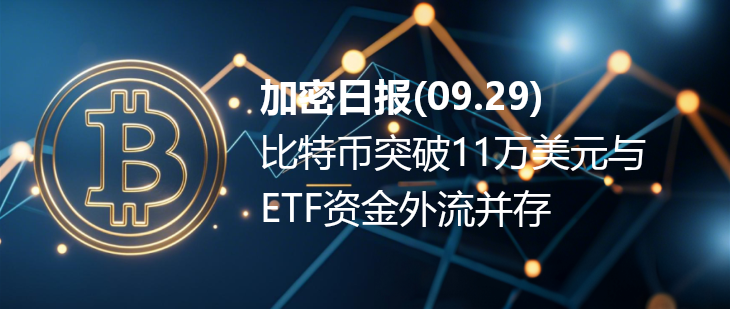
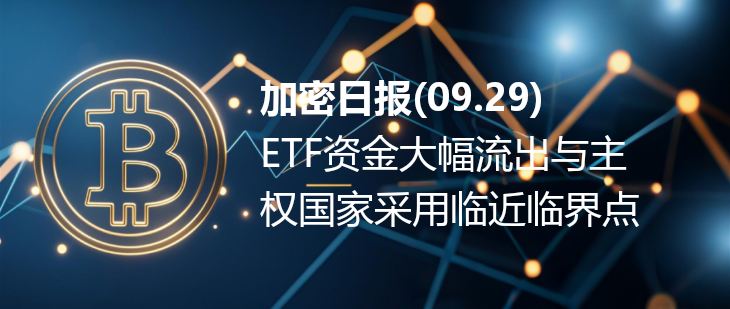
daily_news

Changed region(s): [[0.3315, 0.6117, 0.874, 0.7573], [0.3616, 0.4369, 0.9041, 0.5534], [0.3616, 0.2621, 0.7534, 0.3786]]

diff --git a/files/latest_summary.md b/files/latest_summary.md
@@ -1,48 +1,51 @@
-### 一、比特币价格波动与技术面分析
+### 一、比特币市场动态与价格分析  
+**总结**：  
+1. 技术分析显示比特币短期支撑位在107286-105159美元区间，阻力位在112400-113750美元，若突破或推动价格接近117971美元，否则可能吸引流动性回调。  
+2. 市场情绪分化，交易员在110000美元卖出看涨期权、109000美元买入看跌期权，临近周末波动率压缩，难现大幅波动，部分交易者在ETH看涨和BTC看跌期权上获利了结。  
+3. NYDIG批评比特币财库公司常用的“mNAV”指标存在误导性，未考虑运营业务或其他资产，且可能含未满足转换条件的可转债导致负债问题。  
 
-**总结**：
-1. 比特币近期价格波动显著，突破110000美元关键价位，技术面分析显示短期支撑位在109400-109575美元区间，阻力位约109750美元，突破阻力后目标指向110000-111000美元，跌破支撑则可能回调至更低区间吸引流动性。
-2. 市场情绪分化，临近周末波动率压缩，交易员在110000美元卖出看涨期权、109000美元买入看跌期权，对第四季度乐观预期存疑，认为近期走势或为“愚蠢的价格行为”。
-3. 技术面指出，比特币日线级别需关注动量强度，若突破阻力可能重燃上涨动能，否则横盘整理概率较大，市场流动性是推动价格移动的关键因素。
-
-**参考**：
-- [bitcoin $BTC 技术分析主要和重要的基本点 时间框架1D 依赖的分析是通过所有平台的 - Binance](https://www.binance.com/zh-CN/square/post/30302382561449)
-- [BTC突破110000美元 - Mitrade](https://www.mitrade.com/cn/insights/news/live-news/article-3-1155383-20250928)
-- [Greeklive：整体市场情绪分化，波动率压缩 - 新浪财经](https://finance.sina.com.cn/blockchain/roll/2025-09-28/doc-infsaexf8783092.shtml)
-
-
-### 二、比特币ETF与机构动态
-
-**总结**：
-1. 现货比特币和以太坊ETF上周遭遇资金大幅流出，比特币ETF流出9.025亿美元，以太坊ETF流出7.956亿美元，为产品推出以来最糟糕一周，反映市场信心受技术崩溃、宏观担忧及连锁清算影响。
-2. Michael Saylor再次发布比特币Tracker信息并强调“始终积累比特币”，根据过往规律，Strategy公司次日或披露增持数据，其比特币投资组合价值约700.1亿美元，累计持有约639,835 BTC。
-3. NYDIG呼吁行业放弃“mNAV”指标，指出该指标未考虑运营业务或其他资产，且可能含未满足转换条件的可转债，存在误导性，大型比特币资产储备公司实际价值评估需更全面。
-
-**参考**：
-- [以太坊和比特币ETF刚刚经历了有史以来最糟糕的一周。 - CryptoTicker](https://cryptoticker.io/zh/%E4%BB%A5%E5%A4%AA%E5%9D%8A%E5%92%8C%E6%AF%94%E7%89%B9%E5%B8%81ETF%E5%88%9A%E5%88%9A%E7%BB%8F%E5%8E%86%E4%BA%86%E6%9C%80%E7%B3%95%E7%9A%84-%E5%91%A8/)
-- [Michael Saylor发布比特币Tracker信息，或暗示再次增持BTC - Binance](https://www.binance.com/cn/square/post/30296948319001)
-- [NYDIG呼吁比特币财库公司放弃“误导性”的mNAV指标 - PANews](https://www.panewslab.com/zh/articles/7792c603-d1f4-4b27-b67a-6690696f9366)
+**参考**：  
+- [Michael Saylor再次发布比特币Tracker信息，下周或将披露增持数据](https://www.chaincatcher.com/article/2209127)  
+- [Michael Saylor发布比特币Tracker信息，或暗示再次增持BTC](https://www.binance.com/zh-CN/square/post/30296948319001)  
+- [Greeklive：整体市场情绪分化，波动率压缩](https://finance.sina.com.cn/blockchain/roll/2025-09-28/doc-infsaexf8783092.shtml)  
+- [bitcoin $BTC 技术分析主要和重要的基本点   时间框架1D](https://www.binance.com/zh-CN/square/post/30302382561449)  
+- [NYDIG呼吁比特币财库公司放弃“误导性”的mNAV指标](https://www.panewslab.com/zh/articles/7792c603-d1f4-4b27-b67a-6690696f9366)  
 
 
-### 三、比特币与黄金的投资价值争议
+### 二、比特币与黄金的投资价值对比  
+**总结**：  
+1. 经济学家Peter Schiff对比特币与黄金的收益及流动性进行对比，认为黄金更适合大规模持有。  
+2. Michael Saylor为Strategy购买比特币已获约47%收益，若同期投资黄金收益约30%，但黄金市场深度大，大规模出售不易影响价格，而比特币大规模出售可能导致市场崩盘。  
 
-**总结**：
-1. 经济学家Peter Schiff对比特币与黄金投资安全提出争议，认为Michael Saylor的Strategy公司投资比特币虽账面收益（约47%）高于黄金（约30%），但出售大量比特币（价值695亿美元）可能导致市场崩盘，而黄金市场深度可支持大额交易，更安全。
-2. 比特币作为“最稳健货币”的声誉随宏观不确定性提升，长期或成为投资者回归的稳定选择，但短期受山寨币吸引力、零售用户入场偏好（如低单价山寨币）影响，市场多元化趋势明显。
-
-**参考**：
-- [Peter Schiff：若Strategy投资黄金而非BTC，或将获得更安全的账面利润 - 链捕手](https://www.marsbit.co/flash/20250928232901022925.html)
-- [比特币（BTC）主权国家采用即将迎来临界点，或将加速涌入 - Cointelegraph中文](https://cn.cointelegraph.com/news/bitcoin-fomo-nation-state-adoption-jan3-samson-mow)
+**参考**：  
+- [BTC 新闻：彼得·希夫解释为何策略（MSTR）应购买黄金而非比特币](https://www.coindesk.com/zh/markets/2025/09/28/schiff-challenges-saylor-s-bitcoin-bet-analyst-says-sub-usd107k-btc-is-a-tremendous-buying-opportunity)  
+- [Peter Schiff：若Strategy 投资黄金而非BTC，或将获得更安全的账面利润](https://m.marsbit.co/flash/20250928232901022925.html)  
+- [经济学家：Strategy若投资黄金而非比特币可能获得更安全的账面利润](https://www.binance.com/zh-CN/square/post/09-28-2025-strategy-30297100487906)  
 
 
-### 四、比特币市场成熟度及宏观经济影响
+### 三、比特币与以太坊ETF资金流动及市场反应  
+**总结**：  
+1. 比特币和以太坊现货ETF上周出现史上最严重资金流出，投资者信心受考验。  
+2. 比特币ETF流出9.025亿美元，以太坊ETF流出7.956亿美元，受技术性崩溃、宏观经济担忧及衍生品清算影响，ETH跌破4000美元后回升，BTC在109000美元附近震荡。  
 
-**总结**：
-1. 比特币市场成熟度提升，仅55%的新加密货币持有者首次投资选择比特币，37%通过山寨币入场，反映市场多元化及参与度扩大，比特币不再是唯一主流入场选择。
-2. 美国政府停摆风险、宏观经济担忧（如通胀、关税）及美联储降息预期影响市场情绪，可能打压美元指数，推升黄金等避险资产，同时影响比特币短期波动，需关注美国8月核心PCE数据及政策不确定性。
-3. 比特币主权国家采用进入“突然初期阶段”，美国推进相关法案及战略性储备计划，预计未来或加速采用，拉丁美洲被视为重要区域，而零售用户对行业认知不足可能导致其短期回避比特币。
+**参考**：  
+- [以太坊和比特币ETF刚刚经历了有史以来最糟糕的一周。](https://cryptoticker.io/zh/%E4%BB%A5%E5%A4%AA%E5%9D%8A%E5%92%8C%E6%AF%94%E7%89%B9%E5%B8%81ETF%E5%88%9A%E5%88%9A%E7%BB%8F%E5%8E%86%E4%BA%86%E6%9C%89%E5%8F%B2%E4%BB%A5%E6%9D%A5%E6%9C%80%E7%B3%95%E7%9A%84-%E5%91%A8/)  
+- [以太坊和比特币ETF刚刚经历了有史以来最糟糕的一周。](https://www.bitget.com/zh-CN/news/detail/12560604991730)  
 
-**参考**：
-- [比特币（BTC）主权国家采用即将迎来临界点，或将加速涌入 - Cointelegraph中文](https://cn.cointelegraph.com/news/bitcoin-fomo-nation-state-adoption-jan3-samson-mow)
-- [比特币（BTC）如今只是零售用户进入加密货币领域的众多途径之一 - Cointelegraph中文](https://cn.cointelegraph.com/news/crypto-users-skipping-bitcoin-for-altcoins-2025)
-- [美国政府关门可能让GDP每周损失约70亿美元... - Mitrade](https://www.mitrade.com/cn/insights/news/live-news/article-3-1155383-20250928)
+
+### 四、比特币主权国家采用进展与市场成熟度  
+**总结**：  
+1. 比特币主权国家采用即将进入临界点，美国正推进比特币储备计划，拉丁美洲或有重要政策举措。  
+2. 新加密货币持有者中仅55%首次投资比特币，37%通过山寨币入场，市场多元化推动参与，比特币不再是唯一入场选择，而成为众多加密货币投资目标之一。  
+
+**参考**：  
+- [Samson Mow断言：比特币（BTC）主权国家采用即将迎来临界点，或将加速涌入](https://cn.cointelegraph.com/news/bitcoin-fomo-nation-state-adoption-jan3-samson-mow)  
+- [比特币（BTC）如今只是零售用户进入加密货币领域的众多途径之一](https://cn.cointelegraph.com/news/crypto-users-skipping-bitcoin-for-altcoins-2025)  
+
+
+### 五、稳定币市场现状与竞争  
+**总结**：  
+1. Wormhole联创指出Tether和Circle通过持有支撑其币的美国国债收益“印钞”，持币人未分享收益，新兴平台如M⁰和Agora尝试让稳定币底层收益直接流向应用或最终用户。  
+
+**参考**：  
+- [Wormhole 联创：Tether 和Circle 正在“印钞”，但竞争对手即将到来](https://finance.sina.com.cn/blockchain/roll/2025-09-28/doc-infsaexf8782642.shtml)

diff --git a/files/latest_summary_cleaned.md b/files/latest_summary_cleaned.md
@@ -1,22 +1,19 @@
-### 一、比特币价格波动与技术面分析
+### 一、比特币市场动态与价格分析  
+1. 技术分析显示比特币短期支撑位在107286-105159美元区间，阻力位在112400-113750美元，若突破或推动价格接近117971美元，否则可能吸引流动性回调。  
+2. 市场情绪分化，交易员在110000美元卖出看涨期权、109000美元买入看跌期权，临近周末波动率压缩，难现大幅波动，部分交易者在ETH看涨和BTC看跌期权上获利了结。  
+3. NYDIG批评比特币财库公司常用的“mNAV”指标存在误导性，未考虑运营业务或其他资产，且可能含未满足转换条件的可转债导致负债问题。  
 
-1. 比特币近期价格波动显著，突破110000美元关键价位，技术面分析显示短期支撑位在109400-109575美元区间，阻力位约109750美元，突破阻力后目标指向110000-111000美元，跌破支撑则可能回调至更低区间吸引流动性。
-2. 市场情绪分化，临近周末波动率压缩，交易员在110000美元卖出看涨期权、109000美元买入看跌期权，对第四季度乐观预期存疑，认为近期走势或为“愚蠢的价格行为”。
-3. 技术面指出，比特币日线级别需关注动量强度，若突破阻力可能重燃上涨动能，否则横盘整理概率较大，市场流动性是推动价格移动的关键因素。
+### 二、比特币与黄金的投资价值对比  
+1. 经济学家Peter Schiff对比特币与黄金的收益及流动性进行对比，认为黄金更适合大规模持有。  
+2. Michael Saylor为Strategy购买比特币已获约47%收益，若同期投资黄金收益约30%，但黄金市场深度大，大规模出售不易影响价格，而比特币大规模出售可能导致市场崩盘。  
 
-### 二、比特币ETF与机构动态
+### 三、比特币与以太坊ETF资金流动及市场反应  
+1. 比特币和以太坊现货ETF上周出现史上最严重资金流出，投资者信心受考验。  
+2. 比特币ETF流出9.025亿美元，以太坊ETF流出7.956亿美元，受技术性崩溃、宏观经济担忧及衍生品清算影响，ETH跌破4000美元后回升，BTC在109000美元附近震荡。  
 
-1. 现货比特币和以太坊ETF上周遭遇资金大幅流出，比特币ETF流出9.025亿美元，以太坊ETF流出7.956亿美元，为产品推出以来最糟糕一周，反映市场信心受技术崩溃、宏观担忧及连锁清算影响。
-2. Michael Saylor再次发布比特币Tracker信息并强调“始终积累比特币”，根据过往规律，Strategy公司次日或披露增持数据，其比特币投资组合价值约700.1亿美元，累计持有约639,835 BTC。
-3. NYDIG呼吁行业放弃“mNAV”指标，指出该指标未考虑运营业务或其他资产，且可能含未满足转换条件的可转债，存在误导性，大型比特币资产储备公司实际价值评估需更全面。
+### 四、比特币主权国家采用进展与市场成熟度  
+1. 比特币主权国家采用即将进入临界点，美国正推进比特币储备计划，拉丁美洲或有重要政策举措。  
+2. 新加密货币持有者中仅55%首次投资比特币，37%通过山寨币入场，市场多元化推动参与，比特币不再是唯一入场选择，而成为众多加密货币投资目标之一。  
 
-### 三、比特币与黄金的投资价值争议
-
-1. 经济学家Peter Schiff对比特币与黄金投资安全提出争议，认为Michael Saylor的Strategy公司投资比特币虽账面收益（约47%）高于黄金（约30%），但出售大量比特币（价值695亿美元）可能导致市场崩盘，而黄金市场深度可支持大额交易，更安全。
-2. 比特币作为“最稳健货币”的声誉随宏观不确定性提升，长期或成为投资者回归的稳定选择，但短期受山寨币吸引力、零售用户入场偏好（如低单价山寨币）影响，市场多元化趋势明显。
-
-### 四、比特币市场成熟度及宏观经济影响
-
-1. 比特币市场成熟度提升，仅55%的新加密货币持有者首次投资选择比特币，37%通过山寨币入场，反映市场多元化及参与度扩大，比特币不再是唯一主流入场选择。
-2. 美国政府停摆风险、宏观经济担忧（如通胀、关税）及美联储降息预期影响市场情绪，可能打压美元指数，推升黄金等避险资产，同时影响比特币短期波动，需关注美国8月核心PCE数据及政策不确定性。
-3. 比特币主权国家采用进入“突然初期阶段”，美国推进相关法案及战略性储备计划，预计未来或加速采用，拉丁美洲被视为重要区域，而零售用户对行业认知不足可能导致其短期回避比特币。
+### 五、稳定币市场现状与竞争  
+1. Wormhole联创指出Tether和Circle通过持有支撑其币的美国国债收益“印钞”，持币人未分享收益，新兴平台如M⁰和Agora尝试让稳定币底层收益直接流向应用或最终用户。  
